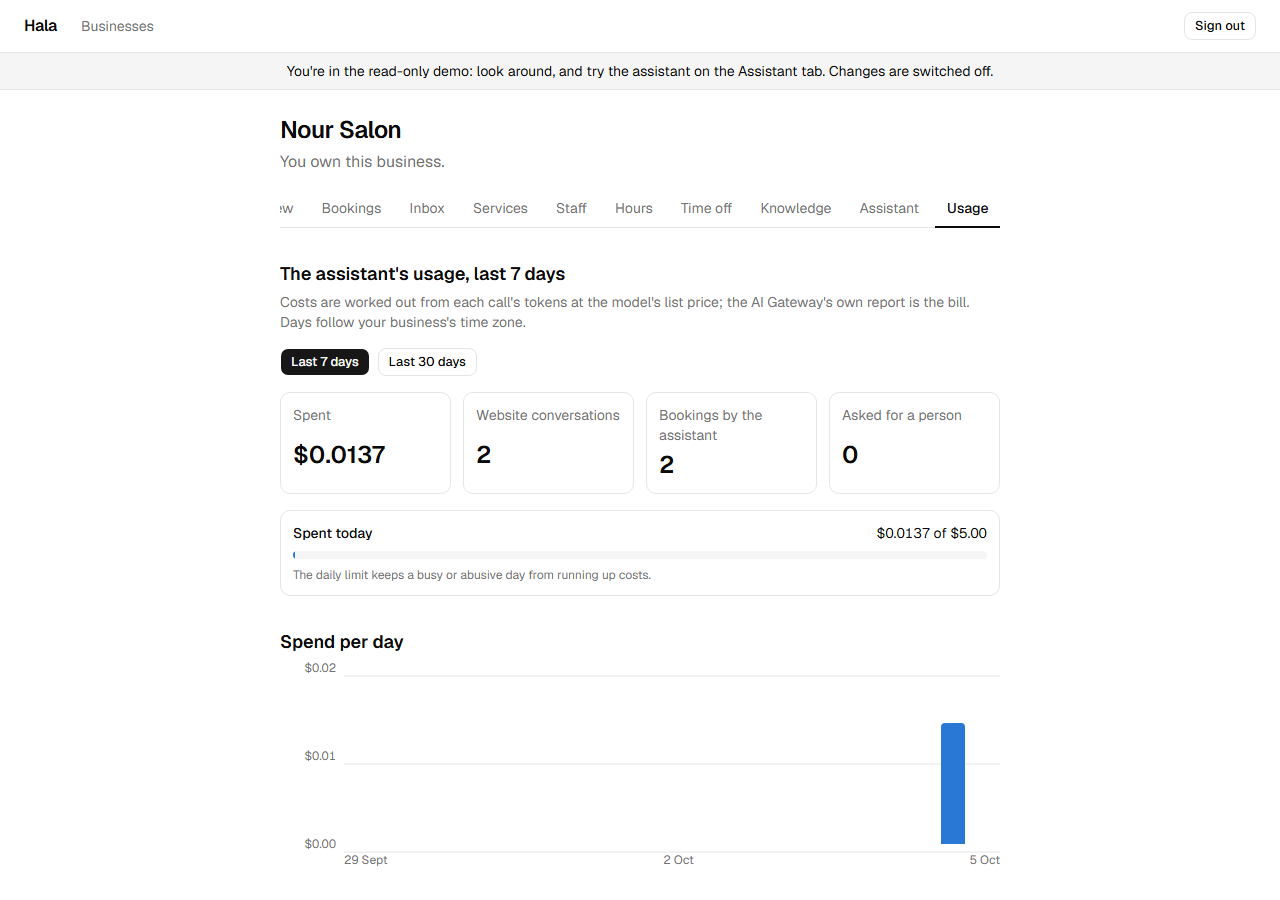
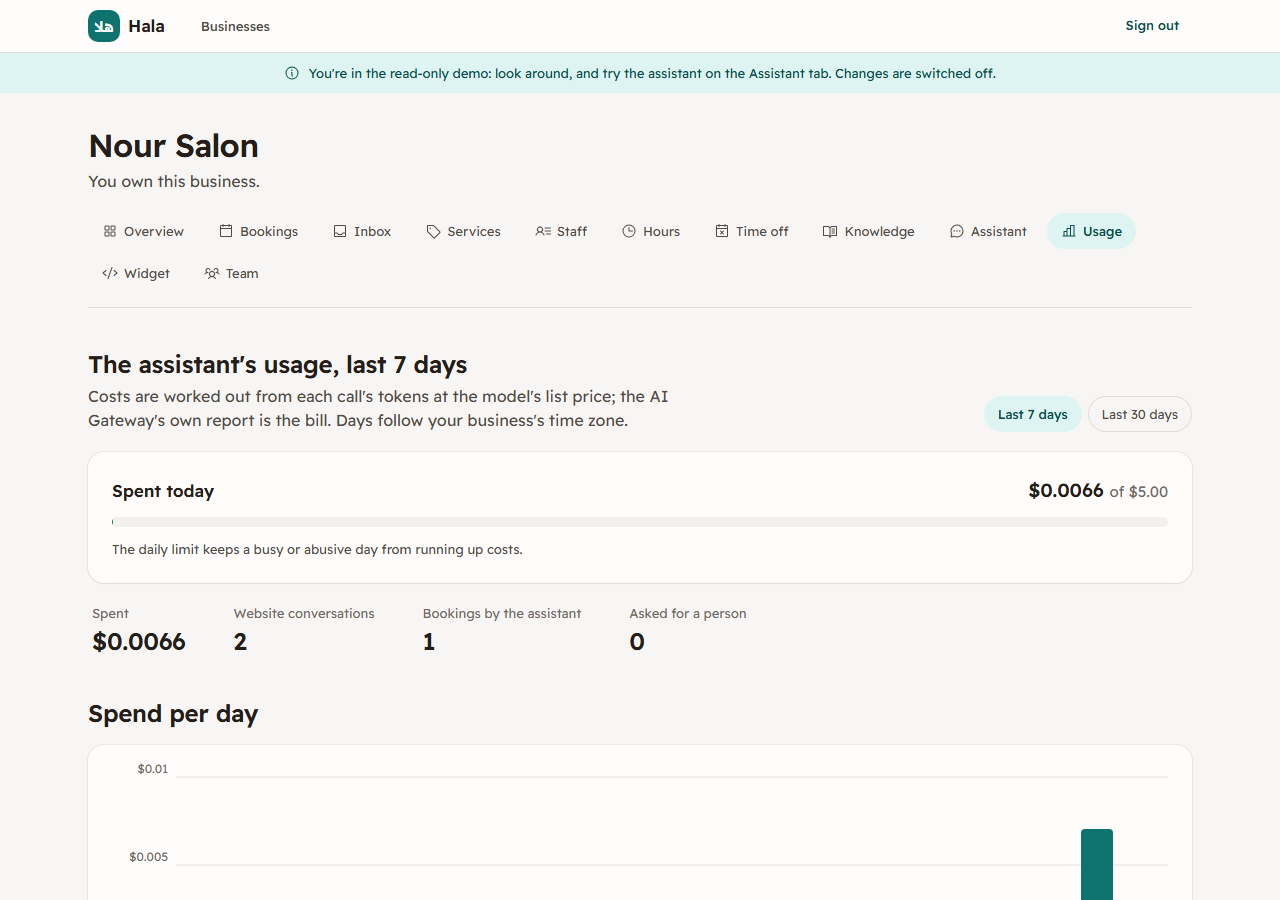
docs: redesign results, after screens, new screenshots and a changelog
- docs/design/results.md: before and after, measured the same way.
  axe finds nothing on 58 pages at desktop and phone sizes (42 before),
  or on 20 pages in dark mode; Lighthouse accessibility is 100
  everywhere (the widget was 98: no main landmark). Lighthouse
  performance is level or higher on every page, both against the
  Step 1 scores and side by side with main, with the largest paint
  0.5 to 1.1 s sooner. Lighthouse's blocking time rose on the widget
  and the demo in five runs, so it was measured directly too: 20
  alternating loads with the processor slowed 4x, where the redesign
  blocked less on both. The size budget holds: embed script 2,833 of
  2,917 bytes, chat frame 302,926 of 323,430.
- docs/design/after/: the same 59 screens as before/, at both sizes,
  with axe's findings, the widget's sizes and Lighthouse's scores.
- docs/images/: the README and how-it-works screenshots in the new
  design, taken like the originals: the local production build with
  the real models, on a fresh database.
- CHANGELOG.md, new: what the redesign changed for the people who use
  Hala.
- README: a Design section and the two build commands (pnpm widget,
  pnpm tokens). DESIGN.md: status and the icons.

diff --git a/docs/design/after/index.md b/docs/design/after/index.md
@@ -1,0 +1,65 @@
+# Screens
+
+Captured by `scripts/screens/screens.spec.ts` (`pnpm screens`): each screen at desktop (1440 wide) and mobile (390 wide).
+
+| Screen | Desktop | Mobile |
+| --- | --- | --- |
+| auth-01-login | <img src="auth-01-login-desktop.jpg" width="480" alt="auth-01-login, desktop"> | <img src="auth-01-login-mobile.jpg" width="160" alt="auth-01-login, mobile"> |
+| auth-02-login-link-error | <img src="auth-02-login-link-error-desktop.jpg" width="480" alt="auth-02-login-link-error, desktop"> | <img src="auth-02-login-link-error-mobile.jpg" width="160" alt="auth-02-login-link-error, mobile"> |
+| auth-03-login-confirmed | <img src="auth-03-login-confirmed-desktop.jpg" width="480" alt="auth-03-login-confirmed, desktop"> | <img src="auth-03-login-confirmed-mobile.jpg" width="160" alt="auth-03-login-confirmed, mobile"> |
+| auth-04-signup | <img src="auth-04-signup-desktop.jpg" width="480" alt="auth-04-signup, desktop"> | <img src="auth-04-signup-mobile.jpg" width="160" alt="auth-04-signup, mobile"> |
+| auth-05-signup-error | <img src="auth-05-signup-error-desktop.jpg" width="480" alt="auth-05-signup-error, desktop"> | <img src="auth-05-signup-error-mobile.jpg" width="160" alt="auth-05-signup-error, mobile"> |
+| auth-06-check-email | <img src="auth-06-check-email-desktop.jpg" width="480" alt="auth-06-check-email, desktop"> | <img src="auth-06-check-email-mobile.jpg" width="160" alt="auth-06-check-email, mobile"> |
+| dash-01-businesses | <img src="dash-01-businesses-desktop.jpg" width="480" alt="dash-01-businesses, desktop"> | <img src="dash-01-businesses-mobile.jpg" width="160" alt="dash-01-businesses, mobile"> |
+| dash-02-new-business | <img src="dash-02-new-business-desktop.jpg" width="480" alt="dash-02-new-business, desktop"> | <img src="dash-02-new-business-mobile.jpg" width="160" alt="dash-02-new-business, mobile"> |
+| dash-03-overview | <img src="dash-03-overview-desktop.jpg" width="480" alt="dash-03-overview, desktop"> | <img src="dash-03-overview-mobile.jpg" width="160" alt="dash-03-overview, mobile"> |
+| dash-04-bookings | <img src="dash-04-bookings-desktop.jpg" width="480" alt="dash-04-bookings, desktop"> | <img src="dash-04-bookings-mobile.jpg" width="160" alt="dash-04-bookings, mobile"> |
+| dash-05-booking | <img src="dash-05-booking-desktop.jpg" width="480" alt="dash-05-booking, desktop"> | <img src="dash-05-booking-mobile.jpg" width="160" alt="dash-05-booking, mobile"> |
+| dash-06-new-booking | <img src="dash-06-new-booking-desktop.jpg" width="480" alt="dash-06-new-booking, desktop"> | <img src="dash-06-new-booking-mobile.jpg" width="160" alt="dash-06-new-booking, mobile"> |
+| dash-07-services | <img src="dash-07-services-desktop.jpg" width="480" alt="dash-07-services, desktop"> | <img src="dash-07-services-mobile.jpg" width="160" alt="dash-07-services, mobile"> |
+| dash-08-service | <img src="dash-08-service-desktop.jpg" width="480" alt="dash-08-service, desktop"> | <img src="dash-08-service-mobile.jpg" width="160" alt="dash-08-service, mobile"> |
+| dash-09-staff | <img src="dash-09-staff-desktop.jpg" width="480" alt="dash-09-staff, desktop"> | <img src="dash-09-staff-mobile.jpg" width="160" alt="dash-09-staff, mobile"> |
+| dash-10-staff-member | <img src="dash-10-staff-member-desktop.jpg" width="480" alt="dash-10-staff-member, desktop"> | <img src="dash-10-staff-member-mobile.jpg" width="160" alt="dash-10-staff-member, mobile"> |
+| dash-11-hours | <img src="dash-11-hours-desktop.jpg" width="480" alt="dash-11-hours, desktop"> | <img src="dash-11-hours-mobile.jpg" width="160" alt="dash-11-hours, mobile"> |
+| dash-12-time-off | <img src="dash-12-time-off-desktop.jpg" width="480" alt="dash-12-time-off, desktop"> | <img src="dash-12-time-off-mobile.jpg" width="160" alt="dash-12-time-off, mobile"> |
+| dash-13-knowledge | <img src="dash-13-knowledge-desktop.jpg" width="480" alt="dash-13-knowledge, desktop"> | <img src="dash-13-knowledge-mobile.jpg" width="160" alt="dash-13-knowledge, mobile"> |
+| dash-14-knowledge-try | <img src="dash-14-knowledge-try-desktop.jpg" width="480" alt="dash-14-knowledge-try, desktop"> | <img src="dash-14-knowledge-try-mobile.jpg" width="160" alt="dash-14-knowledge-try, mobile"> |
+| dash-15-knowledge-document | <img src="dash-15-knowledge-document-desktop.jpg" width="480" alt="dash-15-knowledge-document, desktop"> | <img src="dash-15-knowledge-document-mobile.jpg" width="160" alt="dash-15-knowledge-document, mobile"> |
+| dash-16-assistant | <img src="dash-16-assistant-desktop.jpg" width="480" alt="dash-16-assistant, desktop"> | <img src="dash-16-assistant-mobile.jpg" width="160" alt="dash-16-assistant, mobile"> |
+| dash-17-assistant-chat | <img src="dash-17-assistant-chat-desktop.jpg" width="480" alt="dash-17-assistant-chat, desktop"> | <img src="dash-17-assistant-chat-mobile.jpg" width="160" alt="dash-17-assistant-chat, mobile"> |
+| dash-18-usage | <img src="dash-18-usage-desktop.jpg" width="480" alt="dash-18-usage, desktop"> | <img src="dash-18-usage-mobile.jpg" width="160" alt="dash-18-usage, mobile"> |
+| dash-19-widget | <img src="dash-19-widget-desktop.jpg" width="480" alt="dash-19-widget, desktop"> | <img src="dash-19-widget-mobile.jpg" width="160" alt="dash-19-widget, mobile"> |
+| dash-20-team | <img src="dash-20-team-desktop.jpg" width="480" alt="dash-20-team, desktop"> | <img src="dash-20-team-mobile.jpg" width="160" alt="dash-20-team, mobile"> |
+| dash-21-read-only | <img src="dash-21-read-only-desktop.jpg" width="480" alt="dash-21-read-only, desktop"> | <img src="dash-21-read-only-mobile.jpg" width="160" alt="dash-21-read-only, mobile"> |
+| dash-22-read-only-refused | <img src="dash-22-read-only-refused-desktop.jpg" width="480" alt="dash-22-read-only-refused, desktop"> | <img src="dash-22-read-only-refused-mobile.jpg" width="160" alt="dash-22-read-only-refused, mobile"> |
+| demo-01-page | <img src="demo-01-page-desktop.jpg" width="480" alt="demo-01-page, desktop"> | <img src="demo-01-page-mobile.jpg" width="160" alt="demo-01-page, mobile"> |
+| empty-01-businesses | <img src="empty-01-businesses-desktop.jpg" width="480" alt="empty-01-businesses, desktop"> | <img src="empty-01-businesses-mobile.jpg" width="160" alt="empty-01-businesses, mobile"> |
+| empty-02-overview | <img src="empty-02-overview-desktop.jpg" width="480" alt="empty-02-overview, desktop"> | <img src="empty-02-overview-mobile.jpg" width="160" alt="empty-02-overview, mobile"> |
+| empty-03-bookings | <img src="empty-03-bookings-desktop.jpg" width="480" alt="empty-03-bookings, desktop"> | <img src="empty-03-bookings-mobile.jpg" width="160" alt="empty-03-bookings, mobile"> |
+| empty-04-inbox | <img src="empty-04-inbox-desktop.jpg" width="480" alt="empty-04-inbox, desktop"> | <img src="empty-04-inbox-mobile.jpg" width="160" alt="empty-04-inbox, mobile"> |
+| empty-05-services | <img src="empty-05-services-desktop.jpg" width="480" alt="empty-05-services, desktop"> | <img src="empty-05-services-mobile.jpg" width="160" alt="empty-05-services, mobile"> |
+| empty-06-staff | <img src="empty-06-staff-desktop.jpg" width="480" alt="empty-06-staff, desktop"> | <img src="empty-06-staff-mobile.jpg" width="160" alt="empty-06-staff, mobile"> |
+| empty-07-knowledge | <img src="empty-07-knowledge-desktop.jpg" width="480" alt="empty-07-knowledge, desktop"> | <img src="empty-07-knowledge-mobile.jpg" width="160" alt="empty-07-knowledge, mobile"> |
+| empty-08-usage | <img src="empty-08-usage-desktop.jpg" width="480" alt="empty-08-usage, desktop"> | <img src="empty-08-usage-mobile.jpg" width="160" alt="empty-08-usage, mobile"> |
+| inbox-01-list | <img src="inbox-01-list-desktop.jpg" width="480" alt="inbox-01-list, desktop"> | <img src="inbox-01-list-mobile.jpg" width="160" alt="inbox-01-list, mobile"> |
+| inbox-02-conversation | <img src="inbox-02-conversation-desktop.jpg" width="480" alt="inbox-02-conversation, desktop"> | <img src="inbox-02-conversation-mobile.jpg" width="160" alt="inbox-02-conversation, mobile"> |
+| inbox-03-taken-over | <img src="inbox-03-taken-over-desktop.jpg" width="480" alt="inbox-03-taken-over, desktop"> | <img src="inbox-03-taken-over-mobile.jpg" width="160" alt="inbox-03-taken-over, mobile"> |
+| inbox-04-replied | <img src="inbox-04-replied-desktop.jpg" width="480" alt="inbox-04-replied, desktop"> | <img src="inbox-04-replied-mobile.jpg" width="160" alt="inbox-04-replied, mobile"> |
+| public-01-home | <img src="public-01-home-desktop.jpg" width="480" alt="public-01-home, desktop"> | <img src="public-01-home-mobile.jpg" width="160" alt="public-01-home, mobile"> |
+| public-02-not-found | <img src="public-02-not-found-desktop.jpg" width="480" alt="public-02-not-found, desktop"> | <img src="public-02-not-found-mobile.jpg" width="160" alt="public-02-not-found, mobile"> |
+| widget-01-closed | <img src="widget-01-closed-desktop.jpg" width="480" alt="widget-01-closed, desktop"> | <img src="widget-01-closed-mobile.jpg" width="160" alt="widget-01-closed, mobile"> |
+| widget-02-open-en | <img src="widget-02-open-en-desktop.jpg" width="480" alt="widget-02-open-en, desktop"> | <img src="widget-02-open-en-mobile.jpg" width="160" alt="widget-02-open-en, mobile"> |
+| widget-03-answer-en | <img src="widget-03-answer-en-desktop.jpg" width="480" alt="widget-03-answer-en, desktop"> | <img src="widget-03-answer-en-mobile.jpg" width="160" alt="widget-03-answer-en, mobile"> |
+| widget-04-confirm-en | <img src="widget-04-confirm-en-desktop.jpg" width="480" alt="widget-04-confirm-en, desktop"> | <img src="widget-04-confirm-en-mobile.jpg" width="160" alt="widget-04-confirm-en, mobile"> |
+| widget-05-booked-en | <img src="widget-05-booked-en-desktop.jpg" width="480" alt="widget-05-booked-en, desktop"> | <img src="widget-05-booked-en-mobile.jpg" width="160" alt="widget-05-booked-en, mobile"> |
+| widget-06-error-en | <img src="widget-06-error-en-desktop.jpg" width="480" alt="widget-06-error-en, desktop"> | <img src="widget-06-error-en-mobile.jpg" width="160" alt="widget-06-error-en, mobile"> |
+| widget-07-open-ar | <img src="widget-07-open-ar-desktop.jpg" width="480" alt="widget-07-open-ar, desktop"> | <img src="widget-07-open-ar-mobile.jpg" width="160" alt="widget-07-open-ar, mobile"> |
+| widget-08-answer-ar | <img src="widget-08-answer-ar-desktop.jpg" width="480" alt="widget-08-answer-ar, desktop"> | <img src="widget-08-answer-ar-mobile.jpg" width="160" alt="widget-08-answer-ar, mobile"> |
+| widget-09-confirm-ar | <img src="widget-09-confirm-ar-desktop.jpg" width="480" alt="widget-09-confirm-ar, desktop"> | <img src="widget-09-confirm-ar-mobile.jpg" width="160" alt="widget-09-confirm-ar, mobile"> |
+| widget-10-booked-ar | <img src="widget-10-booked-ar-desktop.jpg" width="480" alt="widget-10-booked-ar, desktop"> | <img src="widget-10-booked-ar-mobile.jpg" width="160" alt="widget-10-booked-ar, mobile"> |
+| widget-11-waiting-en | <img src="widget-11-waiting-en-desktop.jpg" width="480" alt="widget-11-waiting-en, desktop"> | <img src="widget-11-waiting-en-mobile.jpg" width="160" alt="widget-11-waiting-en, mobile"> |
+| widget-12-team-en | <img src="widget-12-team-en-desktop.jpg" width="480" alt="widget-12-team-en, desktop"> | <img src="widget-12-team-en-mobile.jpg" width="160" alt="widget-12-team-en, mobile"> |
+| widget-13-ended-en | <img src="widget-13-ended-en-desktop.jpg" width="480" alt="widget-13-ended-en, desktop"> | <img src="widget-13-ended-en-mobile.jpg" width="160" alt="widget-13-ended-en, mobile"> |
+| widget-14-budget-spent-en | <img src="widget-14-budget-spent-en-desktop.jpg" width="480" alt="widget-14-budget-spent-en, desktop"> | <img src="widget-14-budget-spent-en-mobile.jpg" width="160" alt="widget-14-budget-spent-en, mobile"> |
+| widget-15-too-many-en | <img src="widget-15-too-many-en-desktop.jpg" width="480" alt="widget-15-too-many-en, desktop"> | <img src="widget-15-too-many-en-mobile.jpg" width="160" alt="widget-15-too-many-en, mobile"> |
+| widget-16-unknown-business | <img src="widget-16-unknown-business-desktop.jpg" width="480" alt="widget-16-unknown-business, desktop"> | <img src="widget-16-unknown-business-mobile.jpg" width="160" alt="widget-16-unknown-business, mobile"> |

diff --git a/docs/design/results.md b/docs/design/results.md
@@ -1,0 +1,91 @@
+# Redesign results
+
+Step 7 of the redesign: the same checks as before it started, run again on the finished work. The [audit](audit.md) recorded the starting point on 2026-10-06; everything below the "after" headings was measured on 2026-10-08, on the same machine, from the production build.
+
+## Screens
+
+[`before/index.md`](before/index.md) and [`after/index.md`](after/index.md) show the same 59 screens and states, at desktop (1440 wide) and phone (390 wide) sizes, captured by the same script (`scripts/screens/screens.spec.ts`) with the offline models, so the conversations say the same things in both:
+
+```bash
+pnpm build
+SCREENS_DIR=docs/design/after pnpm screens
+```
+
+## Accessibility
+
+| Check                                   | Before                          | After                                     |
+| --------------------------------------- | ------------------------------- | ----------------------------------------- |
+| axe, WCAG 2.1 A and AA, desktop         | 0 findings on 42 pages          | 0 findings on 58 pages                    |
+| axe, WCAG 2.1 A and AA, phone           | 0 findings on 42 pages          | 0 findings on 58 pages                    |
+| axe with the device in dark mode        | not checked (there was no dark) | 0 findings on 20 pages                    |
+| Lighthouse accessibility, widget        | 98                              | 100                                       |
+| Lighthouse accessibility, other pages   | 100                             | 100                                       |
+| Text contrast (computed for each token) | not checked                     | every pair at least 4.5:1, light and dark |
+
+The widget's 98 was Lighthouse's "Document does not have a main landmark"; the chat is a `main` landmark now. The 16 extra axe pages are the widget's states, now checked inside their frame (axe's findings: [`after/axe-desktop.json`](after/axe-desktop.json), [`after/axe-mobile.json`](after/axe-mobile.json)). Contrast is computed by `src/styles/tokens.test.ts`, which fails if any text pair drops below AA. Automated checks catch roughly a third of accessibility problems; keyboard use and what a screen reader announces still need a person to try them.
+
+**Reduced motion.** With `prefers-reduced-motion`, nothing moves: the widget panel opens without fading, new messages and the typing dots stand still, a pressed button no longer settles 1px, and a rule in `globals.css` stops any transition or animation a component forgets to guard. Checked in Chromium both ways: a pressed button moves 1px and transitions take 120ms with motion allowed, and neither happens with it reduced.
+
+## Lighthouse
+
+`LIGHTHOUSE=1 SCREENS_DIR=… pnpm screens -g lighthouse --project desktop`: Lighthouse 13.5.0 with the installed Chrome, each page three times and the median kept, at Lighthouse's phone settings (a slow 4G connection and a 4x slower processor) and its desktop settings. The full numbers are in [`before/lighthouse.json`](before/lighthouse.json) and [`after/lighthouse.json`](after/lighthouse.json).
+
+| Page             | Performance | Accessibility | Largest paint   | Blocking time | Layout shift |
+| ---------------- | ----------- | ------------- | --------------- | ------------- | ------------ |
+| Demo, phone      | 78 → 90     | 100 → 100     | 3.85 s → 2.70 s | 305 → 254 ms  | 0 → 0        |
+| Demo, desktop    | 100 → 100   | 100 → 100     | 0.77 s → 0.67 s | 14 → 25 ms    | 0 → 0        |
+| Widget, phone    | 77 → 78     | 98 → 100      | 4.01 s → 3.29 s | 492 → 568 ms  | 0 → 0        |
+| Widget, desktop  | 99 → 100    | 98 → 100      | 0.84 s → 0.66 s | 47 → 56 ms    | 0 → 0        |
+| Sign in, phone   | 83 → 86     | 100 → 100     | 3.79 s → 3.09 s | 268 → 322 ms  | 0 → 0        |
+| Sign in, desktop | 100 → 100   | 100 → 100     | 0.74 s → 0.68 s | 28 → 9 ms     | 0 → 0        |
+| Inbox, phone     | 89 → 91     | 100 → 100     | 3.54 s → 3.19 s | 128 → 166 ms  | 0 → 0        |
+| Inbox, desktop   | 99 → 100    | 100 → 100     | 0.88 s → 0.67 s | 52 → 8 ms     | 0 → 0        |
+
+Best practices and SEO are 100 everywhere, before and after.
+
+**Read with care.** Two days apart, the same machine was in a different state, and Lighthouse's phone scores move by several points from run to run. The higher "after" scores are mostly that, not the redesign: the demo page's 78 → 90, for example, came out as 95 for the old page and 94 for the new one when the two were measured alternately in Step 5. So the claim is "no regression", and it's tested the fairer way below.
+
+**Measured side by side.** `main` (the site before the redesign) and the redesign, both production builds on one machine against one database, measured alternately: five Lighthouse runs each per page at phone settings, medians shown.
+
+| Page    | Performance | Accessibility | Largest paint   | Blocking time | Layout shift |
+| ------- | ----------- | ------------- | --------------- | ------------- | ------------ |
+| Demo    | 84 → 89     | 100 → 100     | 3.66 s → 2.59 s | 212 → 347 ms  | 0 → 0        |
+| Widget  | 69 → 72     | 98 → 100      | 4.06 s → 3.27 s | 647 → 966 ms  | 0 → 0        |
+| Sign in | 86 → 89     | 100 → 100     | 3.77 s → 3.12 s | 205 → 216 ms  | 0 → 0        |
+| Inbox   | 89 → 93     | 100 → 100     | 3.46 s → 2.86 s | 146 → 166 ms  | 0 → 0        |
+
+Every score is level or higher, and the largest paint comes 0.5 to 1.1 s sooner on every page. Blocking time is the exception that needed a closer look, since the widget's rose by half.
+
+- **The widget's** five runs overlap widely (499 to 903 ms for `main`, 617 to 1,529 ms for the redesign), and its median is pulled up by two slow runs. The extra time sits in the React runtime, a file that is byte for byte the same in both builds.
+- **The demo's** extra time is style and layout: the page has about twice the old one's text, laid out again when the font arrives (the trade-off accepted in Step 5).
+
+So blocking was measured directly as well: 20 alternating loads of each page in Chromium with the processor slowed 4x, adding up every long task's time over 50 ms. The redesign blocked less on both pages, and less in 14 of the 20 pairs on each:
+
+| Page   | `main`, median | Redesign, median | Middle half, `main` | Middle half, redesign |
+| ------ | -------------- | ---------------- | ------------------- | --------------------- |
+| Widget | 1,488 ms       | 1,193 ms         | 1,145 to 1,984 ms   | 1,072 to 1,683 ms     |
+| Demo   | 550 ms         | 497 ms           | 487 to 779 ms       | 440 to 673 ms         |
+
+Lighthouse simulates a slow connection and reorders the work accordingly, so its blocking time can differ from what the processor actually does; the two measures together say the redesign doesn't make these pages slower to respond.
+
+## Size budget
+
+The widget is what a business puts on its own website, so its weight had a hard limit: at most 10% more than before the redesign.
+
+| What                                 | Before        | After         | Limit         |
+| ------------------------------------ | ------------- | ------------- | ------------- |
+| Embed script (`public/widget.js`)    | 2,652 bytes   | 2,833 bytes   | 2,917 bytes   |
+| Embed script, gzipped                | 1,161 bytes   | 1,338 bytes   |               |
+| The chat frame's JavaScript, as sent | 294,028 bytes | 302,926 bytes | 323,430 bytes |
+
+Both are inside the limit: the embed script is 6.8% larger and the chat frame's JavaScript 3.0%. The embed script grew because it now lays the widget out full screen on phones, gives the chat a close button there, and fades the panel in; to fit the budget it's now minified from a readable source (`src/embed/widget.js`, `pnpm widget`), which also means it compresses less well: gzipped, it's 15% larger, which the byte limit doesn't measure. A unit test fails the build when the script is stale or over its limit. Data: [`before/widget-size.json`](before/widget-size.json), [`after/widget-size.json`](after/widget-size.json).
+
+The 404 page shows why the frame is measured, not assumed: its first version used `next/link`, and because the app's 404 belongs to every page's bundle, that added 6,885 bytes of navigation code to the chat frame. It uses plain links now.
+
+## Tests
+
+No behavior changed, and every suite passes on the finished work: 164 unit tests, 60 end-to-end tests (with axe on the pages they visit), 482 database tests (pgTAP), 6 concurrency tests and 33 integration tests, plus typecheck, lint and formatting. Where a test's words changed with the design (a hyphen in a time range, a message that became a heading), the commit that changed it says why; no selector was loosened to make a test pass.
+
+## Not done in this pass
+
+The audit's [proposals](audit.md#proposals-they-change-behavior-so-theyre-not-part-of-this-pass) change behavior, so they wait for their own work: an Arabic dashboard, an Arabic business name, a launcher that knows the business's language, suggested questions in an empty chat, a structured booking confirmation (which would also fix the Arabic punctuation in it), and date and time pickers that match the app.

diff --git a/README.md b/README.md
@@ -54,10 +54,14 @@ An AI receptionist for appointment-based businesses (salons, clinics, studios, c
 - **Prompt-injection resistance, idempotent actions, an append-only audit log of every tool call, and cost controls** (tokens, cost and latency logged per call; rate limits and token budgets).
 - **An evaluation suite** of scripted Arabic and English conversations, run against the real model and scored.
 
+## Design
+
+Hala has a design system of its own ([docs/design/DESIGN.md](docs/design/DESIGN.md)): warm stone neutrals with one teal accent, in light and dark; Readex Pro setting Arabic and English together; surfaces instead of borders; calm motion that stops for reduced motion. Every text pair meets WCAG AA, and a unit test checks it. The tokens live in `src/styles/tokens.css` and are exported to `docs/design/tokens.json` for Hala's other projects. Every screen before and after the redesign, with the accessibility checks, Lighthouse scores and the widget's size budget, is in [docs/design/results.md](docs/design/results.md); what changed is in the [changelog](CHANGELOG.md).
+
 ## Stack
 
 - [Next.js](https://nextjs.org) 16 (App Router) and TypeScript in strict mode
-- [Tailwind CSS](https://tailwindcss.com) and [shadcn/ui](https://ui.shadcn.com), right-to-left ready for Arabic
+- [Tailwind CSS](https://tailwindcss.com) and [shadcn/ui](https://ui.shadcn.com) themed by Hala's tokens, right-to-left ready for Arabic; [Readex Pro](https://fonts.google.com/specimen/Readex+Pro) and [Phosphor](https://phosphoricons.com) icons
 - [Supabase](https://supabase.com): Postgres, Auth, Row-Level Security, pgvector, SQL migrations
 - [Vitest](https://vitest.dev), [Playwright](https://playwright.dev) with [axe](https://github.com/dequelabs/axe-core) accessibility checks, and [pgTAP](https://pgtap.org)
 - GitHub Actions for CI, [Vercel](https://vercel.com) for hosting
@@ -74,6 +78,8 @@ pnpm dev
 ```
 
 Then open http://localhost:3100. `pnpm env:local` writes the local Supabase URL and keys into `.env.local` (see `.env.example` for every variable), and sets `EMBEDDING_MODEL=offline`, a word-matching stand-in that needs no API key. For real semantic search, set `EMBEDDING_MODEL=cohere/embed-v4.0` and an `AI_GATEWAY_API_KEY` from the [Vercel AI Gateway](https://vercel.com/ai-gateway), then re-index on the Knowledge tab. `CHAT_MODEL` works the same way: `offline` (answers from the knowledge base, and books from one exact request) or `openai/gpt-5-mini`. Both are on the gateway's free tier ($5 of credit every 30 days, for a subset of models; Claude and OpenAI's embeddings need paid credit), which covers local use and the evaluation suite. The test suites always use the offline models, whatever `.env.local` says.
+
+Two files are built from sources: after editing the embed script's source, `src/embed/widget.js`, run `pnpm widget` to minify it to `public/widget.js` (a unit test fails when the output is stale or over its size limit), and after changing a design token in `src/styles/tokens.css`, run `pnpm tokens`.
 
 ## Deploying
 

diff --git a/CHANGELOG.md b/CHANGELOG.md
@@ -1,0 +1,14 @@
+# Changelog
+
+What changed for the people who use Hala. The phases that built it are in the README's [roadmap](README.md#roadmap) and the git history.
+
+## 2026-10-08: the redesign
+
+Hala looked like a starter template: gray on white, a near-black button, a 1px border around everything, and nothing that said who it was for. It now has a design system of its own, applied to every screen, with no change to what Hala does. The before and after screens, accessibility checks, Lighthouse scores and size budget are in [docs/design/results.md](docs/design/results.md).
+
+- **A design system** ([docs/design/DESIGN.md](docs/design/DESIGN.md)): warm stone neutrals with one teal accent, in light and dark; Readex Pro setting Arabic and English together, with Arabic's own line heights; surfaces and soft shadows instead of borders; one radius rule; calm, short motion that stops for reduced motion; Phosphor icons. Every text pair meets WCAG AA. The tokens live in `src/styles/tokens.css` and are exported to `docs/design/tokens.json` for other Hala projects.
+- **The widget:** a teal launcher with its label; on phones, the chat fills the screen and has a close button; the business's initial in the header; one message system (the customer in teal, the assistant in stone, the team with a teal edge); quiet process lines and source chips; a raised confirmation card; typing dots; designed empty and error states. Phone numbers inside Arabic text no longer reorder themselves.
+- **The demo** is now Nour Salon's own website, in the salon's colors, built only from the seeded salon's data, so the widget appears on someone else's site the way it does for a real business.
+- **The dashboard, sign-in and home page:** a top bar with the app mark and a skip link, the business's name as the page heading, sections as pills with icons, lists and forms on surfaces, status badges with an icon and a word, composed empty states, wider layouts where the data needs them (a conversation beside its actions, Usage's tables), and one date format everywhere.
+- **Finishing:** a favicon and app icons from the mark, a designed "page not found", and reduced motion honored everywhere.
+- **For developers:** the embed script's readable source is `src/embed/widget.js`, minified to `public/widget.js` by `pnpm widget` (a test fails when it's stale or over 2,917 bytes); `pnpm tokens` regenerates `tokens.json` and the class tables `cn` merges with.

diff --git a/docs/design/DESIGN.md b/docs/design/DESIGN.md
@@ -1,6 +1,6 @@
 # Hala design system
 
-**Status:** approved (step 2 of the redesign, after the [audit](audit.md)). Step 3 made it the app's tokens: [TOKENS.md](TOKENS.md) explains the files, the names used in code, and how another project uses them. Steps 4 to 6 apply it to the widget, the demo page and the dashboard.
+**Status:** approved (step 2 of the redesign, after the [audit](audit.md)). Step 3 made it the app's tokens: [TOKENS.md](TOKENS.md) explains the files, the names used in code, and how another project uses them. Steps 4 to 6 apply it to the widget, the demo page and the dashboard; step 7 adds the icons, the 404 page and reduced motion everywhere, and measures the result: [results.md](results.md).
 
 **See it:** `pnpm dev`, then http://localhost:3100/design-preview (development only: a production build answers 404). Screenshots are in [`preview/`](preview/).
 
@@ -184,7 +184,7 @@ It's a business's website, not Hala's, so it gets a salon identity of its own, b
 
 ## Marks
 
-The wordmark is "Hala | هلا" in Readex Pro semibold. The app mark is "هلا" in `on-accent` on an `accent` rounded square; in step 7 it becomes the favicon and app icon. Neither appears inside the widget, which belongs to the business.
+The wordmark is "Hala | هلا" in Readex Pro semibold. The app mark is "هلا" in `on-accent` on an `accent` rounded square; it is also the favicon and app icons (`src/app/favicon.ico`, `icon.png`, and `apple-icon.png` as a full square, since iOS rounds the corners itself), drawn from Readex Pro and scaled down so small sizes stay clean. Neither appears inside the widget, which belongs to the business.
 
 ## For the marketing site
 
